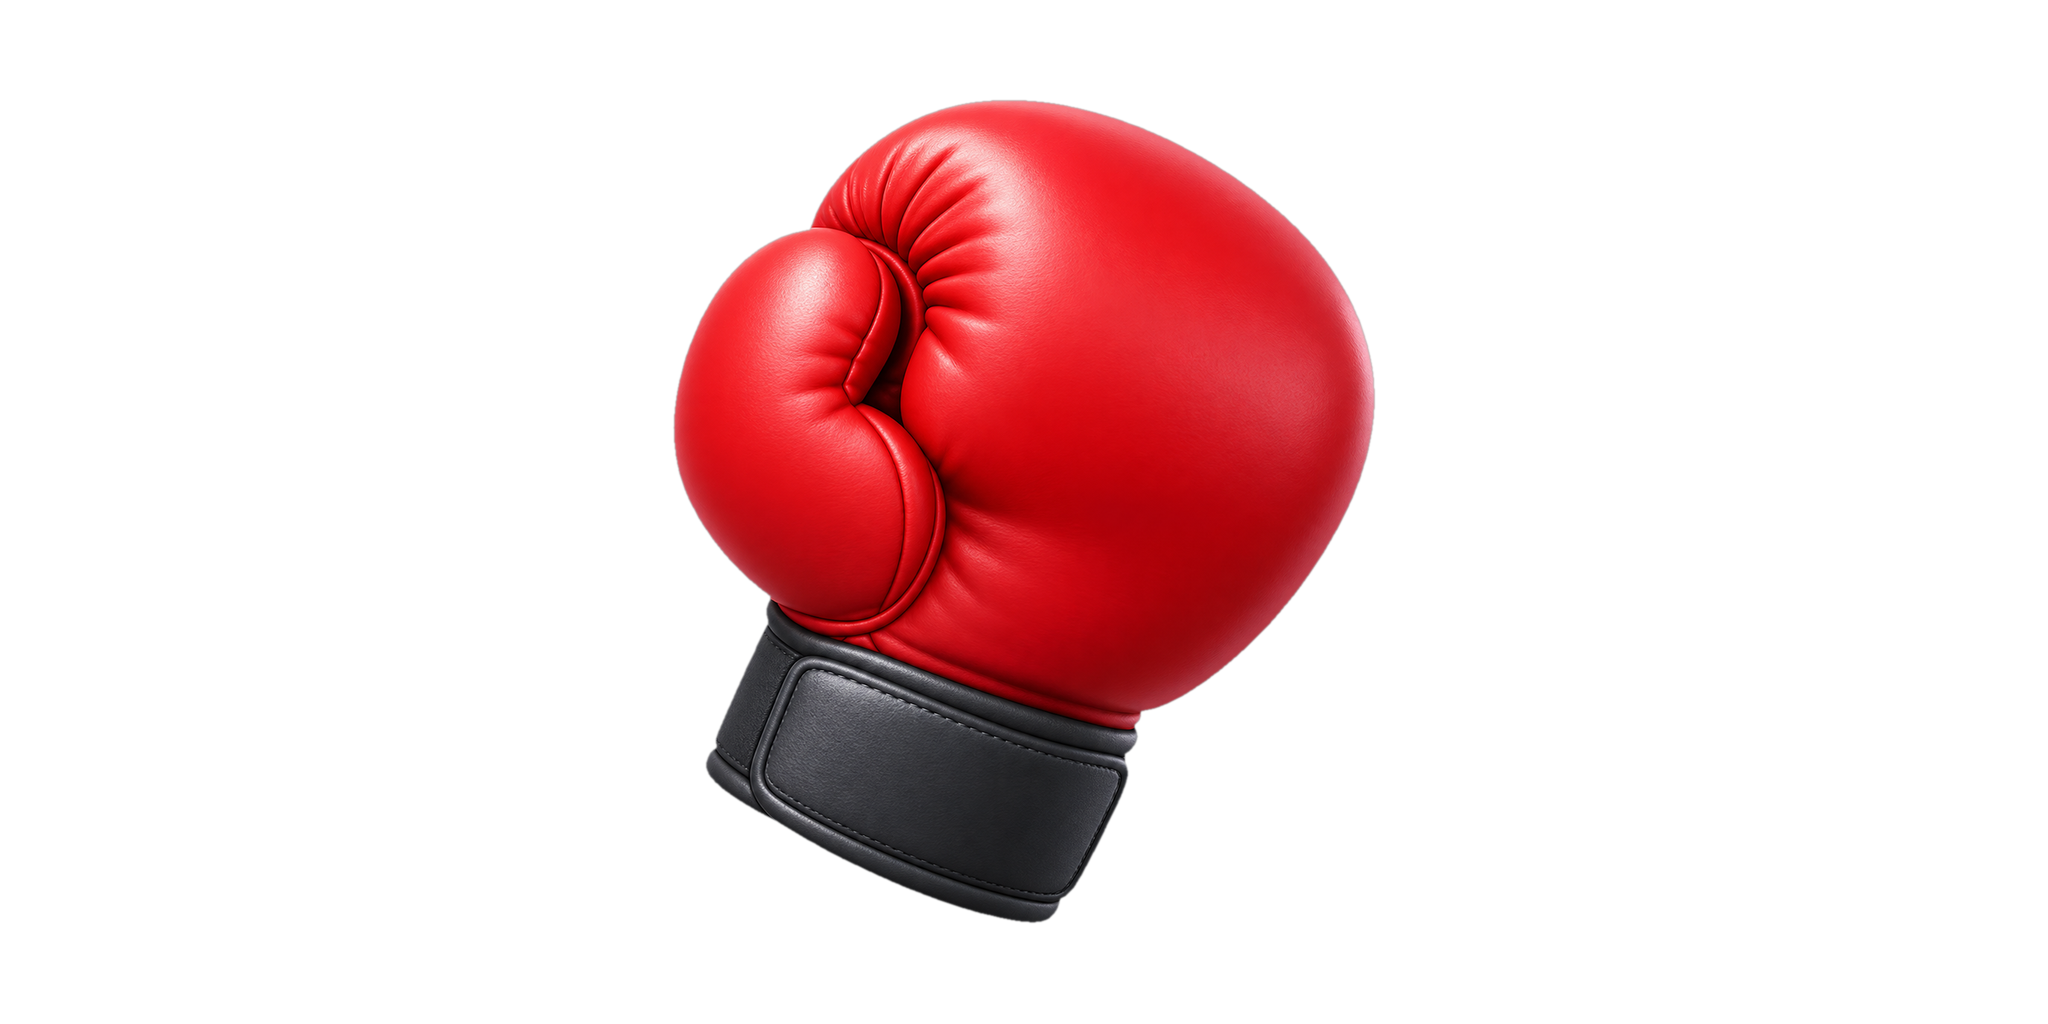
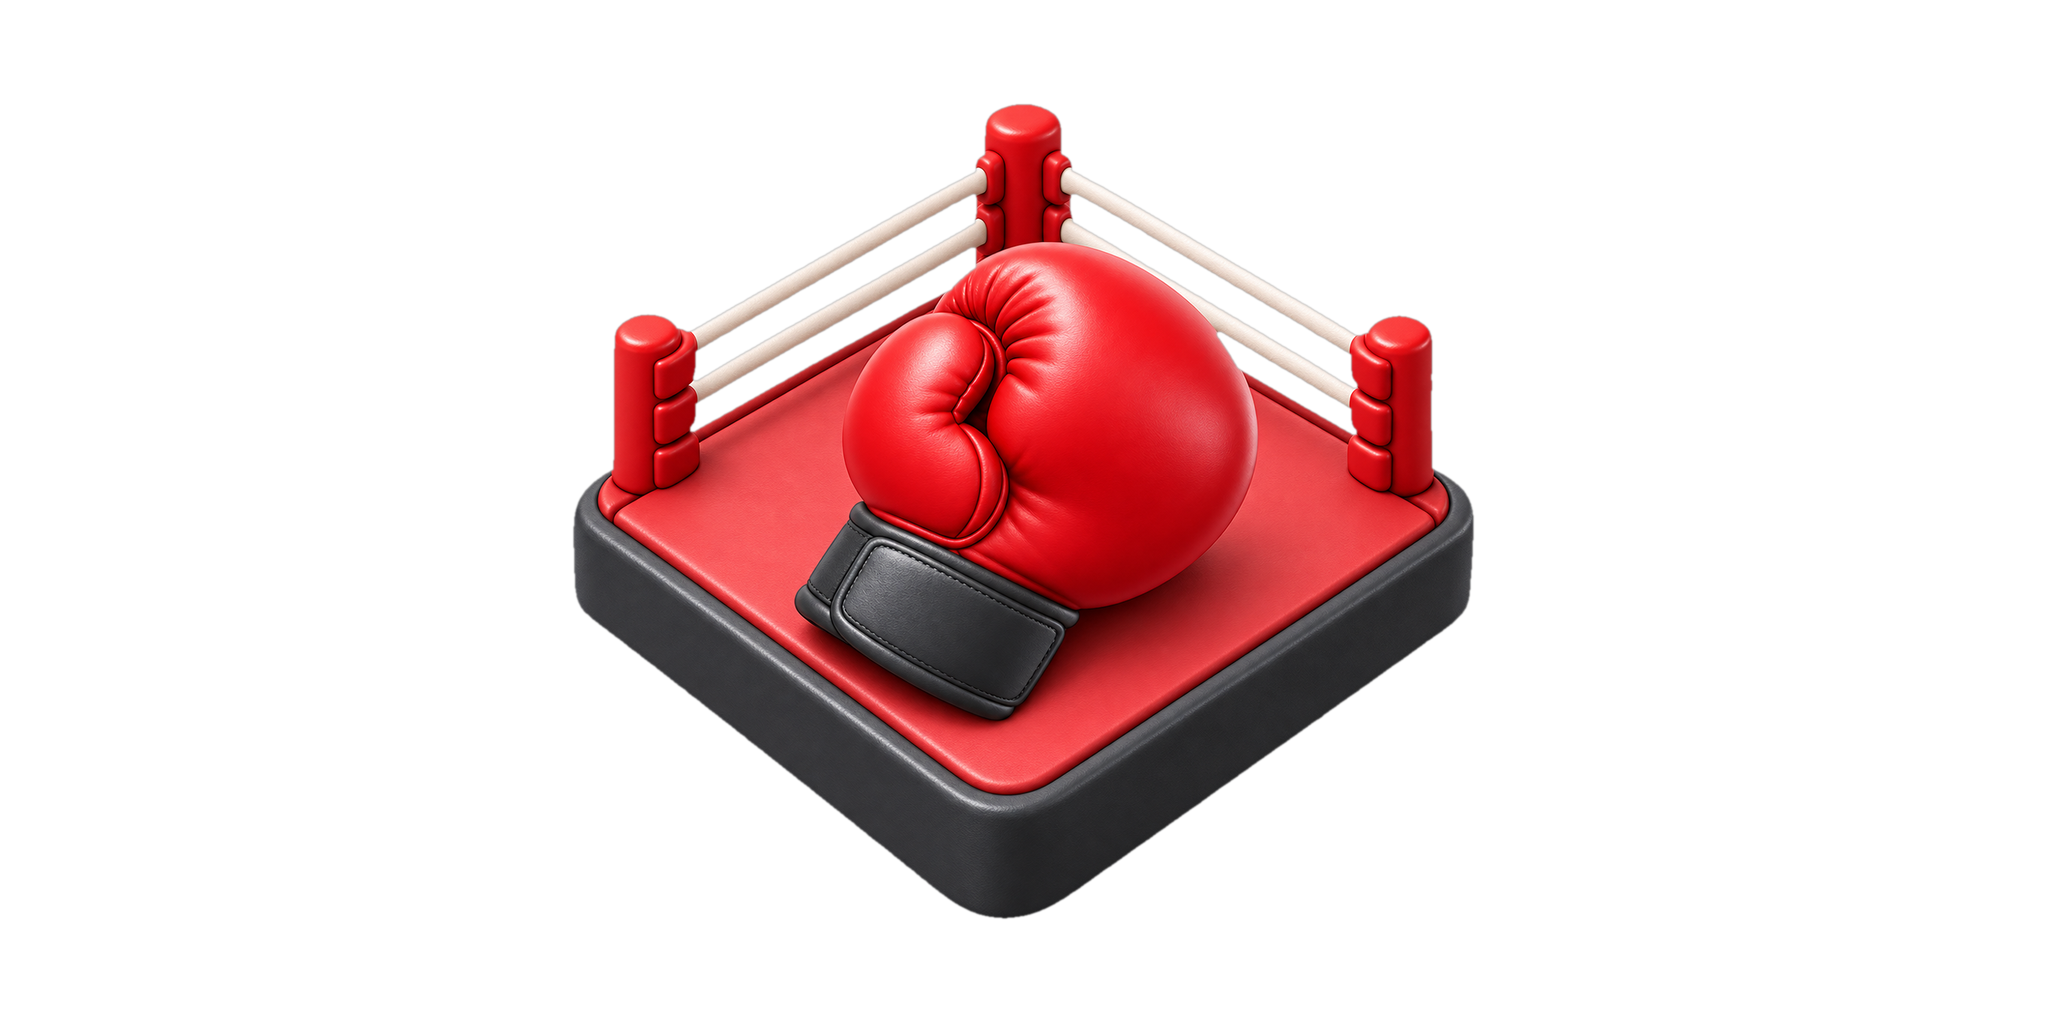
Golf, Combat Sports and Esports: platform pictures and the given colours and glow

Changed region(s): [[0.2812, 0.0938, 0.7188, 0.9062]]

diff --git a/build.py b/build.py
@@ -46,11 +46,11 @@ SPORTS = {
     "football": {"bg": "#2D2922", "glow": "#B99A62", "name": "Football", "cover": "covers/sport-football.png"},
     "baseball": {"bg": "#302921", "glow": "#D6A676", "name": "Baseball", "cover": "covers/sport-baseball.png", "soon": True},
     "tennis": {"bg": "#2A3020", "glow": "#C4DF60", "name": "Tennis", "cover": "covers/sport-tennis.png", "soon": True},
-    "golf": {"bg": "#212D23", "glow": "#8ED38A", "name": "Golf", "cover": "covers/sport-golf.png", "soon": True},
-    "combat": {"bg": "#302221", "glow": "#F0675E", "name": "Combat Sports", "cover": "covers/sport-combat.png", "soon": True},
+    "golf": {"bg": "#263321", "glow": "#9DD85B", "name": "Golf", "cover": "covers/sport-golf.png", "soon": True},
+    "combat": {"bg": "#352222", "glow": "#F06464", "name": "Combat Sports", "cover": "covers/sport-combat.png", "soon": True},
     "motorsport": {"bg": "#302222", "glow": "#EE6565", "name": "Motorsports", "cover": "covers/sport-motorsport.png", "soon": True},
     "winter": {"bg": "#202E3B", "glow": "#75C5FA", "name": "Winter Sports", "cover": "covers/sport-winter.png", "soon": True},
-    "esports": {"bg": "#20263A", "glow": "#7C8EF5", "name": "Esports", "cover": "covers/sport-esports.png", "soon": True},
+    "esports": {"bg": "#202B40", "glow": "#438FF5", "name": "Esports", "cover": "covers/sport-esports.png", "soon": True},
 }
 
 GAMES = {
